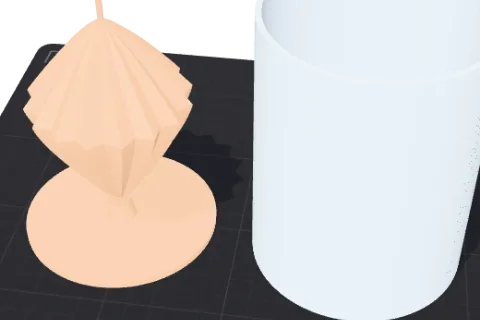
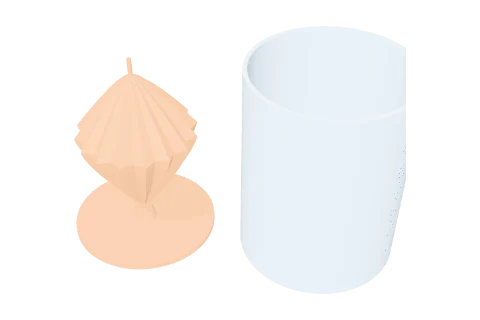
Make idea cards match in both themes
Idea pictures now show the object alone on a clear background (no
plate), trimmed and centred like the live word cards; clean card
background on light; ringed colour dots; outline for very light letters.

Claude-Session: https://claude.ai/code/session_01Gur2ukCcF6SV6N7mbFmgcq

diff --git a/src/main.ts b/src/main.ts
@@ -372,19 +372,33 @@ const viewer = new Viewer($('#viewport'));
 (window as any).__letterforge = {
   viewer, params, rebuild: () => { refreshUI(); schedule(true); }, builds: 0,
   /** Picture of the model from the 3/4 view as a small WebP (used by scripts/render-ideas.mjs). */
+  /** Picture of the model from the 3/4 view as a small WebP (used by scripts/render-ideas.mjs):
+   *  the object alone on a clear background (no plate), trimmed and centred, so picture cards
+   *  look like the live word cards in both themes. */
   thumb: (w = 480, h = 320) => new Promise<string>((resolve) => {
     viewer.setView('angle');
     const img = new Image();
     img.onload = () => {
+      const src = document.createElement('canvas');
+      src.width = img.width; src.height = img.height;
+      const sg = src.getContext('2d')!;
+      sg.drawImage(img, 0, 0);
+      const d = sg.getImageData(0, 0, src.width, src.height).data;
+      let x0 = src.width, y0 = src.height, x1 = 0, y1 = 0;
+      for (let y = 0; y < src.height; y++) for (let x = 0; x < src.width; x++) {
+        if (d[(y * src.width + x) * 4 + 3] > 8) { if (x < x0) x0 = x; if (x > x1) x1 = x; if (y < y0) y0 = y; if (y > y1) y1 = y; }
+      }
+      if (x1 < x0) { x0 = 0; y0 = 0; x1 = src.width - 1; y1 = src.height - 1; }
+      const bw = x1 - x0 + 1, bh = y1 - y0 + 1;
       const c = document.createElement('canvas');
       c.width = w; c.height = h;
-      const g = c.getContext('2d')!;
-      // cover-crop the snapshot into w × h
-      const s = Math.max(w / img.width, h / img.height);
-      g.drawImage(img, (w - img.width * s) / 2, (h - img.height * s) / 2, img.width * s, img.height * s);
-      resolve(c.toDataURL('image/webp', 0.82));
+      const s = Math.min((w * 0.84) / bw, (h * 0.84) / bh);
+      c.getContext('2d')!.drawImage(src, x0, y0, bw, bh, (w - bw * s) / 2, (h - bh * s) / 2, bw * s, bh * s);
+      resolve(c.toDataURL('image/webp', 0.86));
     };
+    viewer.showBed(false);
     img.src = viewer.snapshotFitted();
+    viewer.showBed(true);
   }),
 };
 viewer.setBed(params.bedSize);
@@ -1468,6 +1482,11 @@ function applyIdea(i: number) {
 
 /** Picture of an idea (made by scripts/render-ideas.mjs); 'start' = the style's starting design. */
 const ideaThumb = (style: Style, i: number | 'start') => `${import.meta.env.BASE_URL}ideas/${style}-${i}.webp`;
+/** Very light letter colours need an outline to read on the light theme's cards. */
+const pale = (hex: string) => {
+  const n = parseInt(hex.replace('#', '').slice(0, 6), 16);
+  return (0.299 * ((n >> 16) & 255) + 0.587 * ((n >> 8) & 255) + 0.114 * (n & 255)) / 255 > 0.72;
+};
 
 /** Ready-made ideas for the current style: real words that fit the bed. */
 function renderIdeas() {
@@ -1480,7 +1499,7 @@ function renderIdeas() {
       const live = !NO_TEXT_STYLES.has(params.style) && text !== '';
       const font = FONTS.find((f) => f.key === (d.font ?? PRESETS[params.style].font))?.css ?? 'Archivo Black';
       const pic = live
-        ? `<span class="live-box live-wrap"><span class="live" style="${liveLook(params.style, text, font, patch.colorA ?? DEFAULTS.colorA, patch.colorB ?? DEFAULTS.colorB, 120)}">${escapeHtml(text)}</span></span>`
+        ? `<span class="live-box live-wrap"><span class="live${pale(patch.colorA ?? DEFAULTS.colorA) ? ' pale' : ''}" style="${liveLook(params.style, text, font, patch.colorA ?? DEFAULTS.colorA, patch.colorB ?? DEFAULTS.colorB, 120)}">${escapeHtml(text)}</span></span>`
         : `<img src="${ideaThumb(params.style, i)}" alt="" loading="lazy" onerror="this.remove()">`;
       return `<button type="button" class="idea" data-i="${i}">${pic}<span>${escapeHtml(d.name)}</span></button>`;
     })
@@ -2365,7 +2384,7 @@ function renderHomeIdeas() {
       const font = FONTS.find((f) => f.key === (d.font ?? PRESETS[s].font))?.css ?? 'Archivo Black';
       const twoColour = !['facet', 'stack', 'flower', 'pyramid', 'concrete', 'terrace'].includes(s);
       const pic = live
-        ? `<span class="live" style="${liveLook(s, shown, font, a, b, 220)}">${escapeHtml(shown)}</span>`
+        ? `<span class="live${pale(s === 'keychain' ? b : a) ? ' pale' : ''}" style="${liveLook(s, shown, font, a, b, 220)}">${escapeHtml(shown)}</span>`
         : `<img src="${ideaThumb(s, i)}" alt="" loading="lazy">`;
       return `<a class="idea-card" href="#/new/${s}/${i}${live ? q : ''}"><span class="th"><span class="kind">${escapeHtml(PRESETS[s].label)}</span>${pic}</span><span class="meta"><span><b>${escapeHtml(d.name)}</b><small>${escapeHtml(PRESETS[s].blurb.split('. ')[0])}</small></span><span class="dots" aria-label="${twoColour ? 2 : 1} colours"><i style="background:${a}"></i>${twoColour ? `<i style="background:${b}"></i>` : ''}</span></span></a>`;
     })

diff --git a/src/style.css b/src/style.css
@@ -417,7 +417,7 @@ button.small { padding: 6px 10px; font-size: 12px; }
 .pic.on { border-color: var(--accent); box-shadow: inset 0 0 0 1px var(--accent); color: var(--accent); background: var(--accent-soft); }
 .pic span { line-height: 1.2; }
 .idea { display: grid; gap: 4px; border-radius: 10px; padding: 4px 4px 6px; text-align: center; width: calc(50% - 3px); }
-.idea img { width: 100%; aspect-ratio: 3 / 2; object-fit: cover; border-radius: 7px; background: var(--stage); display: block; }
+.idea img { width: 100%; aspect-ratio: 3 / 2; object-fit: contain; border-radius: 7px; background: var(--stage); display: block; }
 .idea span { font-weight: 600; font-size: 12.5px; }
 .home-note { margin: -4px 0 12px; color: var(--ink-3); font-size: 13px; }
 .home-ideas { display: grid; grid-template-columns: repeat(auto-fill, minmax(170px, 1fr)); gap: 12px; }
@@ -610,7 +610,7 @@ textarea:focus, input[type='text']:focus, input[type='number']:focus, input[type
 .idea-card:hover .th { border-color: rgba(var(--fg-rgb),0.22); }
 .idea-card .th { position: relative; aspect-ratio: 4 / 3; border-radius: 20px; overflow: hidden; background: var(--card); border: 1px solid rgba(var(--fg-rgb),0.06); margin: 0; display: flex; align-items: center; justify-content: center; }
 .idea-card .th::before { content: ''; position: absolute; left: -25%; right: -25%; top: 38%; bottom: -60%; transform: perspective(420px) rotateX(64deg); background-image: linear-gradient(rgba(var(--fg-rgb),0.06) 1px, transparent 1px), linear-gradient(90deg, rgba(var(--fg-rgb),0.06) 1px, transparent 1px); background-size: 28px 28px; }
-.idea-card .th img { position: relative; }
+.idea-card .th img { position: relative; width: 82%; height: 82%; object-fit: contain; margin-top: 4%; filter: drop-shadow(0 14px 18px rgba(0,0,0,.28)); }
 .idea-card .kind { position: absolute; left: 12px; top: 12px; height: 28px; padding: 0 10px; display: flex; align-items: center; border-radius: 999px; background: var(--glass); border: 1px solid rgba(var(--fg-rgb),0.10); font-family: var(--mono); font-size: 12px; letter-spacing: 0.04em; text-transform: uppercase; z-index: 2; color: var(--ink); }
 .idea-card .meta { display: flex; justify-content: space-between; gap: 12px; padding: 0 4px; }
 .idea-card b { font-size: 15px; font-weight: 600; padding: 0; }
@@ -654,4 +654,7 @@ textarea:focus, input[type='text']:focus, input[type='number']:focus, input[type
 :root[data-theme='light'] .theme-toggle .moon { display: none; }
 .top-line { display: flex; align-items: center; justify-content: space-between; gap: 8px; }
 .top-line .theme-toggle { width: 34px; height: 34px; }
-:root[data-theme='light'] .idea-card .th { background: radial-gradient(70% 70% at 50% 40%, #EFEFEB, #D9D9D4); }
+:root[data-theme='light'] .idea-card .th { background: var(--panel); border-color: var(--line-2); }
+:root[data-theme='light'] .live.pale { filter: drop-shadow(0 0 0.6px rgba(0,0,0,.55)) drop-shadow(0 1px 1px rgba(0,0,0,.18)); }
+.idea-card .dots i { box-shadow: inset 0 0 0 1px rgba(var(--fg-rgb),0.22); }
+:root[data-theme='light'] .idea-card .th img { filter: brightness(.93) contrast(1.08) drop-shadow(0 14px 16px rgba(0,0,0,.22)); }

diff --git a/src/viewer.ts b/src/viewer.ts
@@ -201,6 +201,11 @@ export class Viewer {
     this.needsRender = true;
   }
 
+  /** Hide the plate (and its shadow catcher), e.g. for idea pictures on a clear background. */
+  showBed(on: boolean) {
+    this.bed.visible = on;
+    this.needsRender = true;
+  }
   private theme: 'dark' | 'light' = 'dark';
   /** Light or dark plate to match the page theme. */
   setTheme(t: 'dark' | 'light') {

diff --git a/CLAUDE.md b/CLAUDE.md
@@ -110,6 +110,11 @@ Regression check used so far: run smoke before and after a change and diff the
   shape"): own design — rounded sheet (print area + edge), two lift tabs at the front (+z), bevelled
   metal body, CanvasTexture coating (speckle, 10 mm grid, 50 mm lines, print-area corner marks)
   on a ShapeGeometry top; dark/light versions. No logos or branding.
+- Idea pictures (`__letterforge.thumb`) hide the plate (`viewer.showBed(false)`), trim to the
+  object and centre it on a clear background, so picture cards match the live word cards in both
+  themes (user: "something is not matching"). Only no-text styles use them:
+  `ONLY=lamp,mold,tile,terrace node scripts/render-ideas.mjs`. Colour dots have a thin ring
+  (white dots vanished on light); very light letter colours get `.live.pale` outline on light.
 
 ## Styles (Params.style)
 sign (table sign + QR), planter, topo, facet, keychain, duo (two-text sign/vase),
